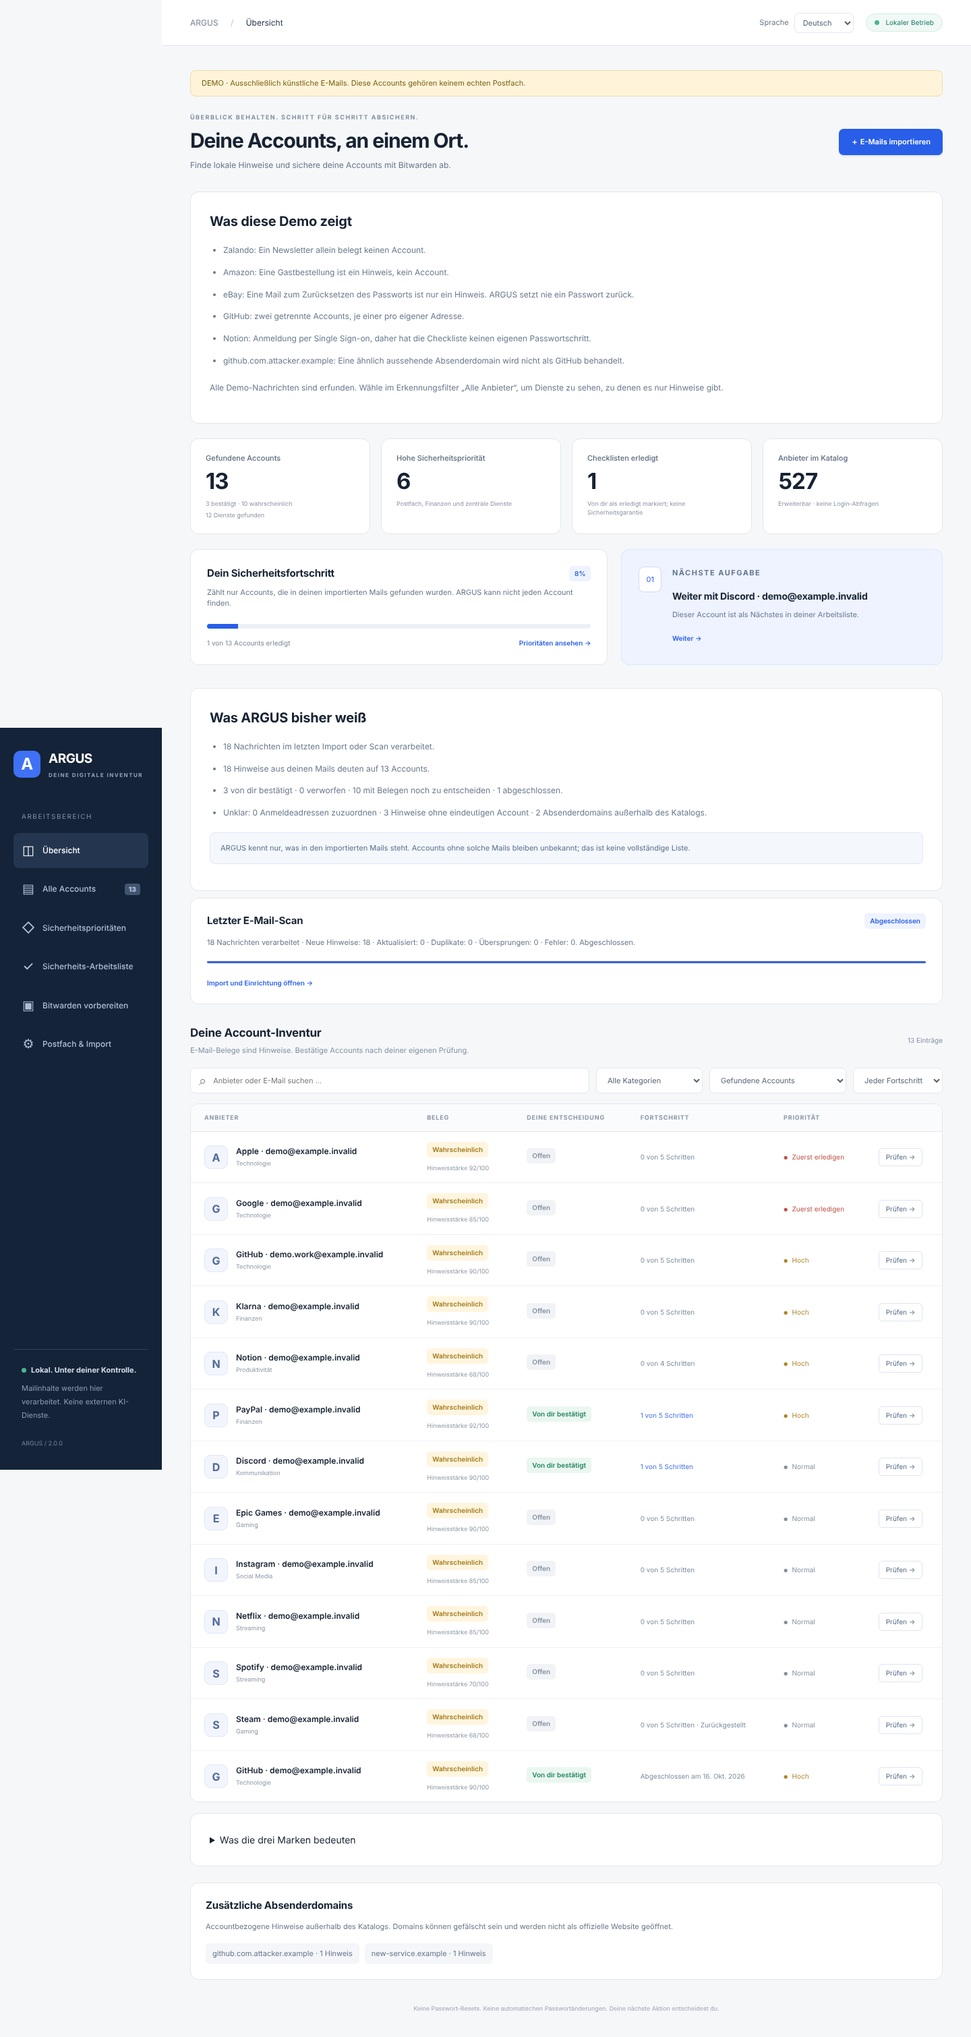
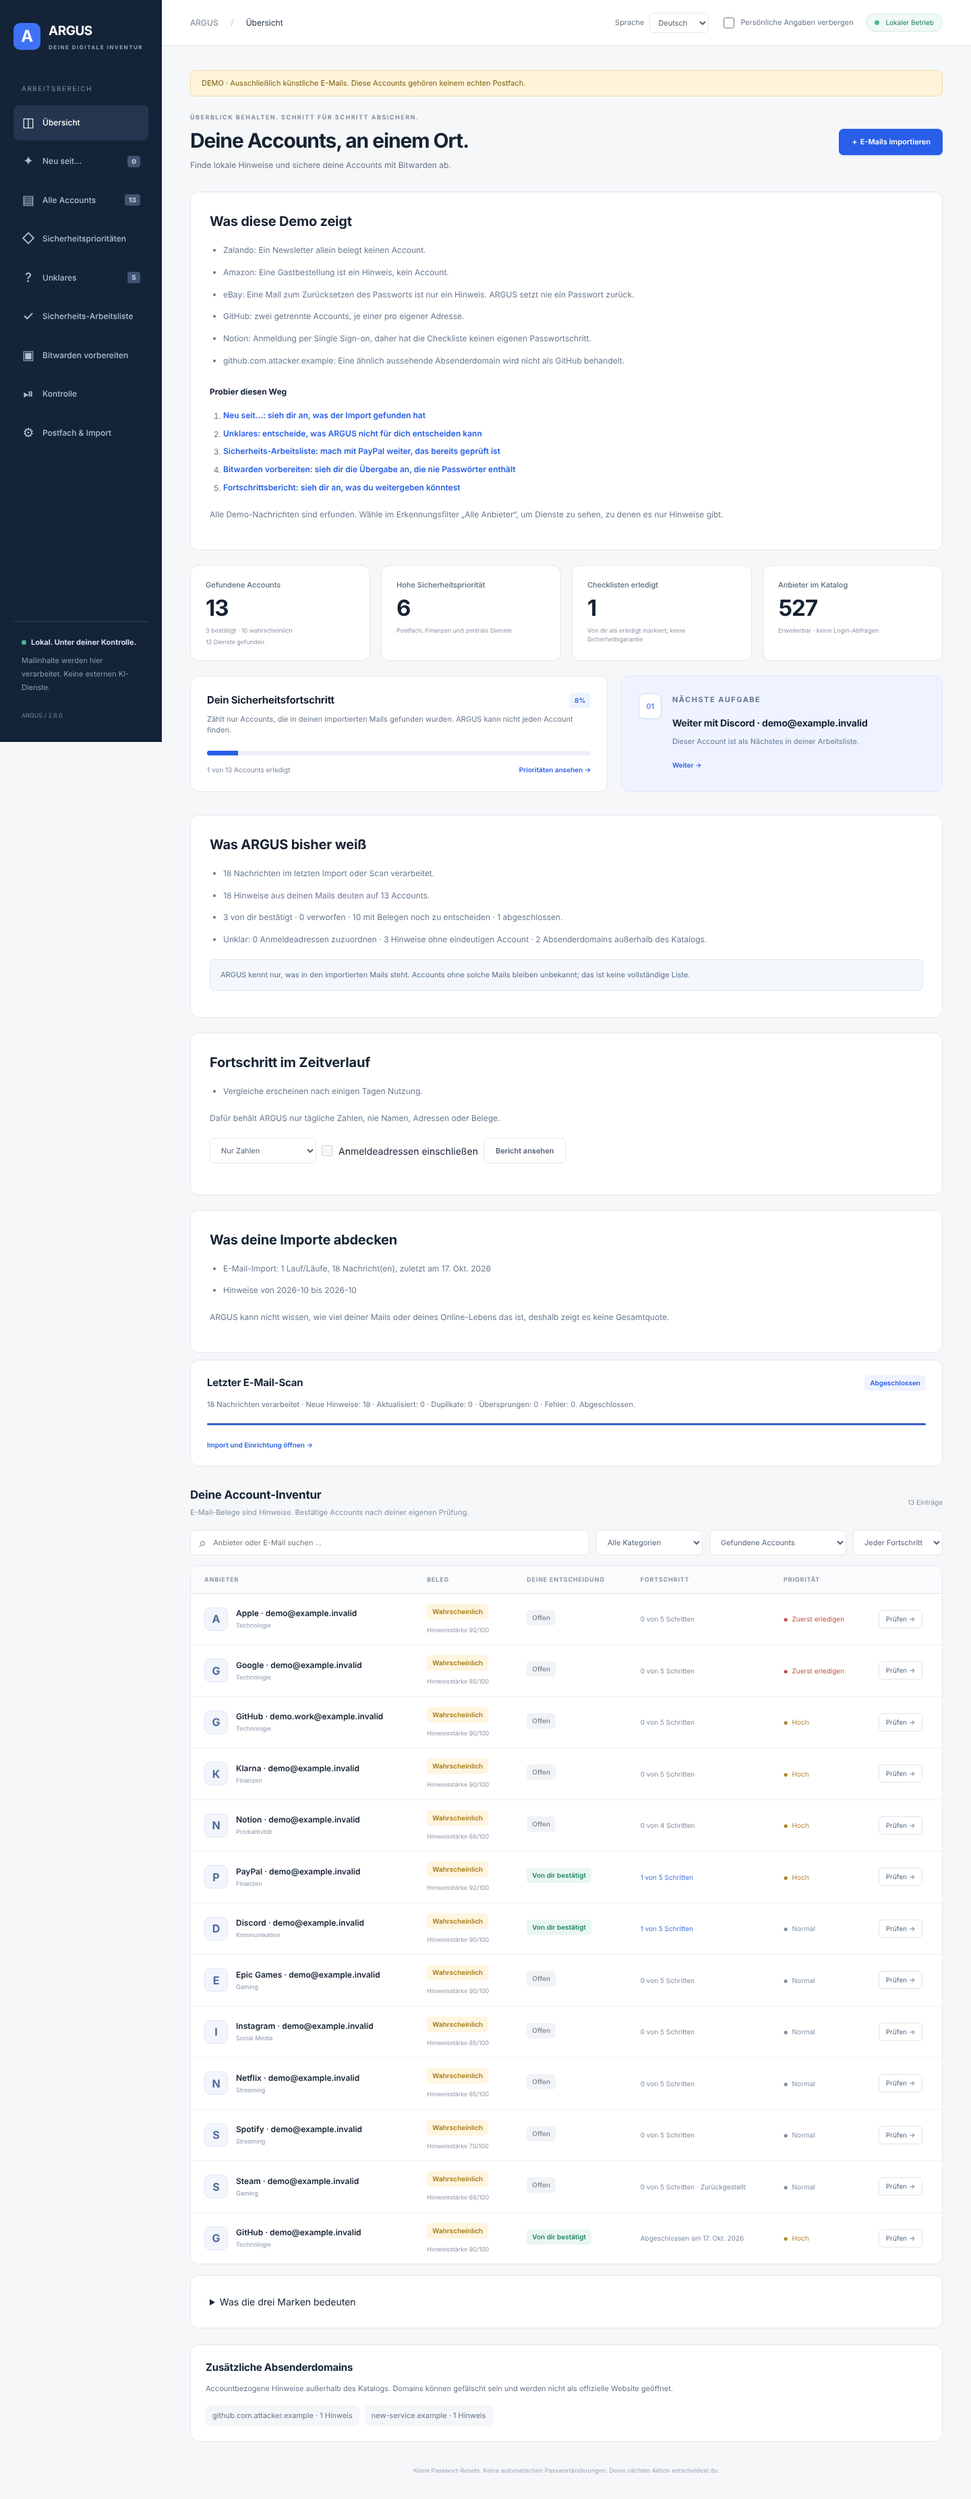
Plan coverage table, fresh previews and a doc link test (S21)
- docs/strategy/README.md lists all 64 plan items with state, step and place
  in the code: 60 implemented, two deliberately narrow, release signatures
  still open, the offline license dropped (everything is free).
- Preview images regenerated from the synthetic demo; the smoke test hides
  short-lived notices (the CSP blocks injected styles) and starts each image
  at the top of the page.
- New repository test for relative Markdown links; stale plans.png link
  removed from the test report. Final notes in the decisions log.

Claude-Session: https://claude.ai/code/session_017ULL23p7s23bqfPT8qLNj3

diff --git a/scripts/browser_smoke.py b/scripts/browser_smoke.py
@@ -15,6 +15,12 @@ from argus_security.scan import load_demo, synthetic_mail
 from argus_security.server import DashboardServer
 from argus_security.store import Store
 
+def preview(page, folder, name):
+    """Save a preview image from the top of the page, without short-lived notices."""
+    # The dashboard's CSP blocks injected styles, so the notice is hidden like its own timer does.
+    page.evaluate("document.getElementById('toast').classList.add('hidden'); window.scrollTo(0, 0)")
+    page.screenshot(path=str(folder / name), full_page=True)
+
 
 def main():
     parser = argparse.ArgumentParser(description="Browser smoke test with synthetic emails")
@@ -100,7 +106,7 @@ def main():
                 checks.append("English desktop dashboard, statistics and demo notice")
                 if args.screenshots_dir:
                     args.screenshots_dir.mkdir(parents=True, exist_ok=True)
-                    page.screenshot(path=str(args.screenshots_dir / "dashboard.png"), full_page=True)
+                    preview(page, args.screenshots_dir, "dashboard.png")
 
                 page.locator('[data-view="workflow"]').click()
                 expect(page.locator('#guided-priority-preview')).to_be_visible()
@@ -156,7 +162,7 @@ def main():
                 expect(page.locator('#guided-prepare-bitwarden')).to_be_visible()
                 page.locator('#close-dialog').click()
                 if args.screenshots_dir:
-                    page.screenshot(path=str(args.screenshots_dir / 'worklist.png'), full_page=True)
+                    preview(page, args.screenshots_dir, 'worklist.png')
                 checks.append('Persistent bilingual security worklist, pause, resume and guided next step')
                 page.locator('[data-view="dashboard"]').click()
 
@@ -180,7 +186,7 @@ def main():
                 expect(page.locator("#category")).to_have_value("Finance")
                 page.locator("#category").select_option("")
                 if args.screenshots_dir:
-                    page.screenshot(path=str(args.screenshots_dir / "dashboard-de.png"), full_page=True)
+                    preview(page, args.screenshots_dir, "dashboard-de.png")
                 page.reload(wait_until="networkidle")
                 expect(page.locator("html")).to_have_attribute("lang", "de")
                 expect(page.locator("#language")).to_have_value("de")
@@ -581,20 +587,20 @@ def main():
                 expect(page.locator("#page-title")).to_be_visible()
                 assert page.evaluate("document.documentElement.scrollWidth <= window.innerWidth")
                 if args.screenshots_dir:
-                    page.screenshot(path=str(args.screenshots_dir / "mobile.png"), full_page=True)
+                    preview(page, args.screenshots_dir, "mobile.png")
                 checks.append("Mobile layout without horizontal page overflow")
                 page.locator("#language").select_option("de")
                 expect(page.locator("#page-title")).to_have_text("Beginne mit deinem Postfach.")
                 assert page.evaluate("document.documentElement.scrollWidth <= window.innerWidth")
                 expect(page.locator("#alias-message")).to_contain_text("Deine Checklisten wurden erhalten")
                 if args.screenshots_dir:
-                    page.screenshot(path=str(args.screenshots_dir / "mobile-de.png"), full_page=True)
+                    preview(page, args.screenshots_dir, "mobile-de.png")
                 checks.append("German mobile layout and translated alias/import messages")
                 page.locator('[data-view="workflow"]').click()
                 expect(page.locator('#worklist-items article')).to_have_count(2)
                 assert page.evaluate("document.documentElement.scrollWidth <= window.innerWidth")
                 if args.screenshots_dir:
-                    page.screenshot(path=str(args.screenshots_dir / 'worklist-mobile-de.png'), full_page=True)
+                    preview(page, args.screenshots_dir, 'worklist-mobile-de.png')
                 checks.append('German security worklist fits the mobile viewport')
 
                 for browser_locale, expected_language, blocked_storage in [("de-DE", "de", False),("fr-FR", "en", False),("de-DE", "de", True)]:

diff --git a/tests/test_repository.py b/tests/test_repository.py
@@ -1,8 +1,9 @@
 # SPDX-License-Identifier: MPL-2.0
 # Copyright (c) 2026 ARGUS contributors
-"""Repository-wide rules: source headers and a standard-library-only runtime."""
+"""Repository-wide rules: source headers, a standard-library-only runtime and working doc links."""
 import ast
 from pathlib import Path
+import re
 import sys
 import tomllib
 import unittest
@@ -50,6 +51,19 @@ class StandardLibraryRuntimeTests(unittest.TestCase):
                         if top not in sys.stdlib_module_names and top not in self.OPTIONAL | {"argus_security"}:
                             foreign.append(f"{path.relative_to(ROOT)}: {name}")
         self.assertEqual(foreign, [])
+
+
+
+class DocumentationLinkTests(unittest.TestCase):
+    def test_relative_markdown_links_point_to_existing_files(self):
+        broken = []
+        documents = [*ROOT.glob("*.md"), *(ROOT / "docs").rglob("*.md"), *(ROOT / ".github").rglob("*.md")]
+        for document in documents:
+            for target in re.findall(r"\]\(([^)\s]+)\)", document.read_text(encoding="utf-8")):
+                path = target.split("#")[0]
+                if path and not re.match(r"^(https?|mailto):", path) and not (document.parent / path).exists():
+                    broken.append(f"{document.relative_to(ROOT)}: {target}")
+        self.assertEqual(broken, [])
 
 
 if __name__ == "__main__":

diff --git a/docs/strategy/README.md b/docs/strategy/README.md
@@ -6,7 +6,8 @@
 first, then more local automation. External access and writes need separate,
 target-bound approvals. Free stays a complete, safe workflow. The plan is a
 strategy paper, not an implementation order. This page tracks how far the code
-follows it.
+follows it. Since step S21 every plan item is implemented, deliberately limited or
+dropped by an owner decision; the coverage table at the end names where.
 
 ## Einordnung
 
@@ -40,7 +41,7 @@ Hauptnutzen kommt ohne sie aus.
 
 ## Umsetzungsstand der 15 Prioritäten
 
-Stand: wird mit jedem Arbeitsschritt aktualisiert, zuletzt S20.
+Stand: abgeschlossen mit S21.
 
 | Nr. | Priorität | Stand | Im Code |
 | --- | --- | --- | --- |
@@ -93,4 +94,109 @@ Schritt wird als eigener PR erst nach grüner CI gemergt. Grundlage sind die
 | S18 | E-Mail-Umzugsplan und Ablaufvorlagen → **2.5.0** | A21, A22, P4 | ✅ (2.5.0) |
 | S19 | Importabdeckung, Barrierefreiheit, Maskierung, Katalogqualität | D4, D6 | ✅ |
 | S20 | Demoablauf, FAQ, vertrauenswürdige Releases → **2.6.0** | G2, G4, G6 | ✅ (2.6.0) |
-| S21 | Abschluss: Abdeckung aller Plan-Punkte | – | offen |
+| S21 | Abschluss: Abdeckung aller Plan-Punkte | – | ✅ |
+
+## Abdeckung aller Plan-Punkte
+
+Stand nach S21: Jeder Punkt des Plans ist umgesetzt, bewusst begrenzt oder per
+Entscheidung entfallen. „Wo“ nennt den Einstieg im Code oder in der Oberfläche;
+die Grenzen aus dem Plan gelten weiter.
+
+### Fundament
+
+| Punkt | Titel | Stand | Schritt | Wo |
+| --- | --- | --- | --- | --- |
+| F1 | Einheitlicher Produktname | umgesetzt | vor S0 | Umbenennung auf ARGUS mit Profil-Migration; Alias `account-finder` bleibt |
+| F2 | Drei klare Einstiegswege | umgesetzt | S7 | Übersicht „Wähle deinen Einstieg“: Demo, lokale E-Mails, IMAP |
+| F3 | Ehrliche Ergebniszusammenfassung | umgesetzt | S7 | `summary.py`, Übersicht „Was ARGUS bisher weiß“ |
+| F4 | Fehler mit nächstem Schritt | umgesetzt | S3 | `guidance.py`, `errors.py`; CLI und Dashboard |
+| F5 | Lokale Änderung rückgängig | umgesetzt | S5 | `changes.py`; `changes`/`undo`, Rückgängig im Dashboard |
+| F6 | Exportvorschau und synthetische Beispiele | umgesetzt | S3 | `bitwarden-export --preview`, Exportvorschau; Demo mit schwierigen Fällen (`scan.load_demo`) |
+
+### Erkennung
+
+| Punkt | Titel | Stand | Schritt | Wo |
+| --- | --- | --- | --- | --- |
+| E1 | Erkennungsbegründungen | umgesetzt | S8 | `analysis.py` (Regelmerkmale), Belegkarten im Detaildialog |
+| E2 | Hinweisarten und Alter trennen | umgesetzt | S8 | Hinweisart, Alter und Stärke je Beleg |
+| E3 | Mehrdeutigkeiten bündeln | umgesetzt | S9 | `review.py`, Ansicht „Unklares“, CLI `unclear` |
+| E4 | Ausschlüsse und Alias-Beziehungen | umgesetzt | S5, S9 | `exclude`, `relate`; Beziehungen ohne Zusammenlegen von Accounts |
+| E5 | Unbekannte Domains und eigener Katalog | umgesetzt | S10 | `catalog.py`, persönlicher Katalog, `/api/catalog` |
+| E6 | Regeländerungen nachvollziehbar anwenden | umgesetzt | S10 | Regelversion je Beleg, Hinweis auf geänderte Bewertungen, Entscheidungen bleiben |
+
+### Dashboard
+
+| Punkt | Titel | Stand | Schritt | Wo |
+| --- | --- | --- | --- | --- |
+| D1 | Eine klare nächste Aufgabe | umgesetzt | S7 | `summary.next_task`, Karte „Nächste Aufgabe“ |
+| D2 | Drei Zustände statt eines grünen Hakens | umgesetzt | S6 | `states.py` (ADR-0001), drei Marken je Account |
+| D3 | Prioritäten erklären und anpassen | umgesetzt | S12 | `identity.explain_priorities`, Reihenfolge in der Arbeitsliste änderbar |
+| D4 | Importabdeckung zeigen | umgesetzt | S19 | `coverage.py`, Panel „Was deine Importe abdecken“, ohne Gesamtquote |
+| D5 | Zentrale Kontrollübersicht | umgesetzt | S13 | Ansicht „Kontrolle“, `jobs.py` |
+| D6 | Barrierefreiheit und Verbergen persönlicher Angaben | umgesetzt (Grundlagen) | S19 | Sprunglink, `aria-current`, Namen für alle Bedienelemente, maskierte Ansicht; kein vollständiges WCAG-Audit |
+
+### Bitwarden
+
+| Punkt | Titel | Stand | Schritt | Wo |
+| --- | --- | --- | --- | --- |
+| B1 | Standardweg ohne Vault-Lesen | umgesetzt | S16 | drei Wege (Datei, CLI, selbst zuordnen) in „Bitwarden vorbereiten“ |
+| B2 | Exakte Übergabevorschau | umgesetzt | S3 | `bitwarden.preview_export`, Vorschau-Dialog |
+| B3 | Sichtbarer Duplikatschutz | umgesetzt | S16 | `handoffs.py`, ein Journal über Download und CLI |
+| B4 | Passwortfreien Eintrag kennzeichnen | umgesetzt | S5 | Tresor-Schritt wird „vorbereitet“, nie „erledigt“ (`instances.py`) |
+| B5 | Datierte Sicherheitsbestätigungen | umgesetzt | S5, S12 | `done_at` und Wiedervorlage je Schritt (`states.py`), Regel `review-rule` |
+| B6 | Kritische Identitätskonten berücksichtigen | umgesetzt | S12 | `identity.py`: `mailbox`, `sign-in-with`, Priorisierung |
+
+### Automatisierung
+
+| Punkt | Titel | Stand | Schritt | Wo |
+| --- | --- | --- | --- | --- |
+| A1 | Änderungszentrale | umgesetzt | S11 | `digest.py`, Ansicht „Neu seit…“, CLI `whats-new` |
+| A2 | Unverändertes erkennen | umgesetzt | S11 | Revision je Hinweis, Durchsicht-Markierung |
+| A3 | Neue Funde vorgruppieren | umgesetzt | S11 | Gruppen nach Account in „Neu seit…“ |
+| A4 | Unklarheiten zuerst | umgesetzt | S11 | Bereich „Zuerst entscheiden“ in „Neu seit…“ |
+| A5 | Passende Checkliste | umgesetzt | S12 | Schritte je Anmeldeart (Passwort, SSO, Passkey) |
+| A6 | Arbeitsliste vorbereiten | umgesetzt | S12 | `workflow.py`, Vorschläge mit Begründung |
+| A7 | Zusammenfassung beim Wiederkommen | umgesetzt | S11 | `digest.return_summary`, Karte in der Übersicht |
+| A8 | Kleine Arbeitssitzungen | umgesetzt | S12 | `sessions.py`, CLI `session` |
+| A9 | Fehlfunde unterdrücken | umgesetzt | S9 | umkehrbare Ausschlüsse mit sichtbarem Geltungsbereich |
+| A10 | Alte Prüfungen vorlegen | umgesetzt | S6, S12 | Wiedervorlage je Schritt, `reviews.py` |
+| A11 | Importeinstellungen merken | umgesetzt | S14 | `import --again`, Hinweis „Letzter lokaler Import“ |
+| A12 | Ausgewählten Ordner beobachten | umgesetzt (eng begrenzt) | S15 | `watch.py`: ein Ordner, nur `*.eml`, nur bei laufendem Dashboard |
+| A13 | Nur Geändertes verarbeiten | umgesetzt | S14 | Index verarbeiteter Nachrichten (`imports.py`) |
+| A14 | Ressourcenbudget | umgesetzt | S14 | `--max-messages`, `--max-megabytes` |
+| A15 | Sicher fortsetzen | umgesetzt | S14 | Fortsetzen über den Nachrichtenindex |
+| A16 | Fehler gezielt bearbeiten | umgesetzt | S14 | `import --retry-failed`, `--check` |
+| A17 | Identitätskonten priorisieren | umgesetzt | S12 | Postfach- und SSO-Accounts zuerst, mit Begründung |
+| A18 | Metadaten vorausfüllen | umgesetzt | S12 | bekannte Angaben in Bitwarden-Notizen |
+| A19 | Übergabebereitschaft prüfen | umgesetzt | S16 | `bitwarden.readiness` je Account |
+| A20 | Sitzungsbericht vorbereiten | umgesetzt | S12 | `sessions.report_text`, Berichtsdialog |
+| A21 | E-Mail-Umzugsplan | umgesetzt | S18 | `moves.py`, CLI `move-address` |
+| A22 | Sichere Ablaufvorlagen | umgesetzt | S18 | `templates.py`, CLI `template`, Vorschau und Rückgängig |
+| A23 | Freigaben vor Start prüfen | umgesetzt | S13 | Zielbindung und sichtbare Freigabe (`background.py`) |
+| A24 | Sichtbare Jobwarteschlange | umgesetzt | S13 | Vorgänge und Wartendes in „Kontrolle“ |
+| A25 | Minimales Aktivitätsprotokoll | umgesetzt | S13 | 500 Einträge, 180 Tage, ohne Inhalte (`jobs.py`) |
+| A26 | Automatikregeln vorschauen | umgesetzt | S13, S18 | `background-imap preview`, Vorlagenvorschau |
+| A27 | Gesamte Automatisierung pausieren | umgesetzt | S13 | `automation pause|resume`, Pause in „Kontrolle“ |
+| A28 | Zusammenfassen statt stören | umgesetzt | S11 | eine Zusammenfassung statt einzelner Meldungen; Pause bleibt sichtbar |
+
+### Frühere Pro-Ideen (alle kostenlos)
+
+| Punkt | Titel | Stand | Schritt | Wo |
+| --- | --- | --- | --- | --- |
+| P1 | Getrennte lokale Profile | umgesetzt | S17 | `--profile`, `profiles.py` |
+| P2 | Lokale Verlaufsanalyse | umgesetzt | S17 | `history.py`, Panel „Fortschritt im Zeitverlauf“ |
+| P3 | Große Archive komfortabel verarbeiten | umgesetzt | S14 | Budget, Fortsetzen, nur Geändertes |
+| P4 | Umzug und eigene Vorlagen | umgesetzt | S18 | Umzugsplan und eigene Vorlagen |
+| P5 | Datensparsame Berichte | umgesetzt | S17 | `reports.py`, `report --text|--export` |
+| P6 | Offline-Lizenz und kuratierte Spezialpakete | entfällt | S1 | Entscheidung „alles als Free“; keine Lizenz |
+
+### Community und Sichtbarkeit
+
+| Punkt | Titel | Stand | Schritt | Wo |
+| --- | --- | --- | --- | --- |
+| G1 | Präzises Produktversprechen | umgesetzt | S3 | README und Dashboard: Hinweise statt Beweise, keine Vollständigkeit |
+| G2 | Ein vollständiger Demoablauf | umgesetzt | S20 | „Probier diesen Weg“, `docs/DEMO_DE.md` |
+| G3 | Anbieter-Vorlage mit Prüfkriterien | umgesetzt | S10 | `.github/ISSUE_TEMPLATE/provider.yml` |
+| G4 | Datensparsame Fehlerberichte und FAQ | umgesetzt | S20 | `argus about`, Fehlerformular, `docs/FAQ_DE.md` |
+| G5 | Synthetischer Qualitätsbenchmark | umgesetzt | S10 | `scripts/benchmark.py`, `benchmarks/` |
+| G6 | Vertrauenswürdige Releases | teilweise | S20 | Release-Prüfung, Prüfsummen, Release-Hinweise; Signaturen folgen später |

diff --git a/docs/TEST_REPORT.md b/docs/TEST_REPORT.md
@@ -13,6 +13,11 @@ without addresses, paths or providers; the database stays byte-identical; a
 missing profile is not created) and the bug report form. The browser follows
 the five demo tour steps and checks that the report field gets the focus.
 
+Step S21: **344 Python tests** and **43 browser check groups**. A new test
+checks that every relative Markdown link in the README files, `docs/` and
+`.github/` points to an existing file. The preview images were regenerated from
+the synthetic demo and inspected on desktop and mobile in both languages.
+
 # Test report — Version 2.5.0 (former Pro features, not yet tagged)
 
 Step S17: **326 Python tests** and **39 browser check groups**. New tests cover
@@ -492,7 +497,7 @@ preserved export choices, and the mobile layout at 390 px. Outgoing browser
 requests were blocked and none were attempted. Desktop and mobile screenshots
 were inspected visually.
 
-[Desktop preview](preview/dashboard.png) · [Plans preview](preview/plans.png) · [Mobile preview](preview/mobile.png)
+[Desktop preview](preview/dashboard.png) · [Mobile preview](preview/mobile.png)
 
 Additional checks: JavaScript syntax, Python compilation, CLI help, archive
 integrity and running the demo from an extracted archive. The version-1.1, version-1.2 and version-1.3 `RULES` values were compared directly

diff --git a/docs/strategy/ENTSCHEIDUNGEN.md b/docs/strategy/ENTSCHEIDUNGEN.md
@@ -165,3 +165,11 @@ Wird während der Umsetzung fortgeschrieben.
   Datenbank schreibgeschützt und legt kein fehlendes Profil an; ein Profil mit
   anderer Schemaversion wird nicht geöffnet, damit die Diagnose nie eine
   Migration auslöst. Sie enthält nur Versionen, System und Zahlen.
+- **S21, Abschluss und was offen bleibt:** Alle Plan-Punkte sind einem Schritt
+  zugeordnet und in der Abdeckungstabelle der [Strategie-Übersicht](README.md)
+  mit Ort im Code belegt. Bewusst offen bleiben: Signaturen für Releases (G6),
+  ein vollständiges WCAG-Audit über die geprüften Grundlagen hinaus (D6) sowie
+  Tags und Releases selbst, die nach der Entscheidung „Version erhöhen, kein
+  Release“ beim Owner liegen. P6 entfällt nach „alles als Free“. Die Grenzen aus
+  dem Plan (keine Logins, keine Passwortänderungen, keine unbestätigten
+  Verbindungen) gelten unverändert weiter.

diff --git a/docs/AENDERUNGEN.md b/docs/AENDERUNGEN.md
@@ -1,5 +1,16 @@
 # Änderungen – Version 2.6.0, Qualität und Vertrauen (noch ohne Tag)
 
+## Plan abgeschlossen (S21)
+
+- `docs/strategy/README.md` führt jeden Punkt des Gesamtplans mit Stand,
+  Schritt und Ort im Code: 60 umgesetzt, zwei bewusst eng begrenzt
+  (Ordnerüberwachung, Grundlagen der Barrierefreiheit), Release-Signaturen
+  folgen noch, und die Offline-Lizenz entfällt, weil alles kostenlos ist.
+- Neue Vorschaubilder aus der synthetischen Demo; der Browsertest blendet kurze
+  Meldungen aus und beginnt jedes Bild am Seitenanfang.
+- Ein Repository-Test schlägt bei relativen Markdown-Links ohne Ziel fehl; ein
+  veralteter Link im Testbericht ist entfernt.
+
 ## Demo-Rundgang, datensparsame Fehlerberichte und geprüfte Releases (G2, G4, G6)
 
 - Die Demo-Übersicht bietet „Probier diesen Weg“: fünf Schritte von dem, was der

diff --git a/docs/CHANGELOG.md b/docs/CHANGELOG.md
@@ -2,6 +2,17 @@
 
 ## 2.6.0 — Quality and trust (not yet tagged)
 
+### Plan complete (S21)
+
+- `docs/strategy/README.md` lists every item of the master plan with its
+  state, step and place in the code: 60 implemented, two deliberately narrow
+  (folder watch, accessibility basics), release signatures still to come and
+  the offline license dropped because every feature is free.
+- Fresh preview images from the synthetic demo; the browser test hides
+  short-lived notices and starts each image at the top of the page.
+- A repository test fails on relative Markdown links that point nowhere; one
+  stale link in the test report is gone.
+
 ### Demo tour, data-minimal bug reports and checked releases (G2, G4, G6)
 
 - The demo overview offers “Try this path”: five steps from what the import

diff --git a/docs/PRUEFBERICHT.md b/docs/PRUEFBERICHT.md
@@ -15,6 +15,12 @@ byte-gleich; ein fehlendes Profil wird nicht angelegt) und das Fehlerformular.
 Der Browser folgt den fünf Schritten des Demo-Rundgangs und prüft, dass das
 Berichtsfeld den Fokus erhält.
 
+Schritt S21: **344 Python-Tests** und **43 Browser-Prüfgruppen**. Ein neuer
+Test prüft, dass jeder relative Markdown-Link in den README-Dateien, `docs/` und
+`.github/` auf eine vorhandene Datei zeigt. Die Vorschaubilder wurden aus der
+synthetischen Demo neu erzeugt und auf Desktop und Mobil in beiden Sprachen
+angesehen.
+
 # Prüfbericht – Version 2.5.0 (frühere Pro-Funktionen, noch ohne Tag)
 
 Schritt S17: **326 Python-Tests** und **39 Browser-Prüfgruppen**. Neue Tests
